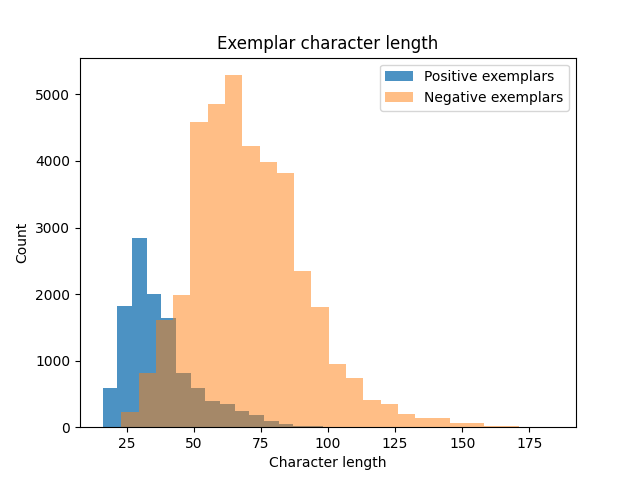
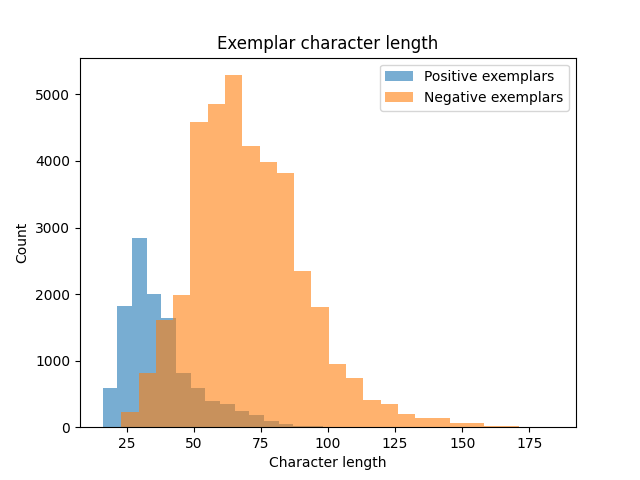
minor

Changed region(s): [[0.1562, 0.5, 0.4688, 0.9062], [0.5938, 0.125, 0.6562, 0.1875]]

diff --git a/peft/data/dataset_analysis.py b/peft/data/dataset_analysis.py
@@ -67,8 +67,8 @@ pos_generics, pos_exemplars = get_generics_and_exemplars('../all-exemplars-prune
 neg_exemplar_char_length = np.array([len(i) for i in neg_exemplars])
 pos_exemplar_char_length = np.array([len(i) for i in pos_exemplars])
 
-plt.hist(pos_exemplar_char_length, alpha=0.8, label="Positive exemplars", bins=17)
-plt.hist(neg_exemplar_char_length, alpha=0.5, label="Negative exemplars", bins=25)
+plt.hist(pos_exemplar_char_length, alpha=0.6, label="Positive exemplars", bins=17)
+plt.hist(neg_exemplar_char_length, alpha=0.6, label="Negative exemplars", bins=25)
 plt.legend(loc='upper right')
 plt.title('Exemplar character length')
 plt.xlabel('Character length')
